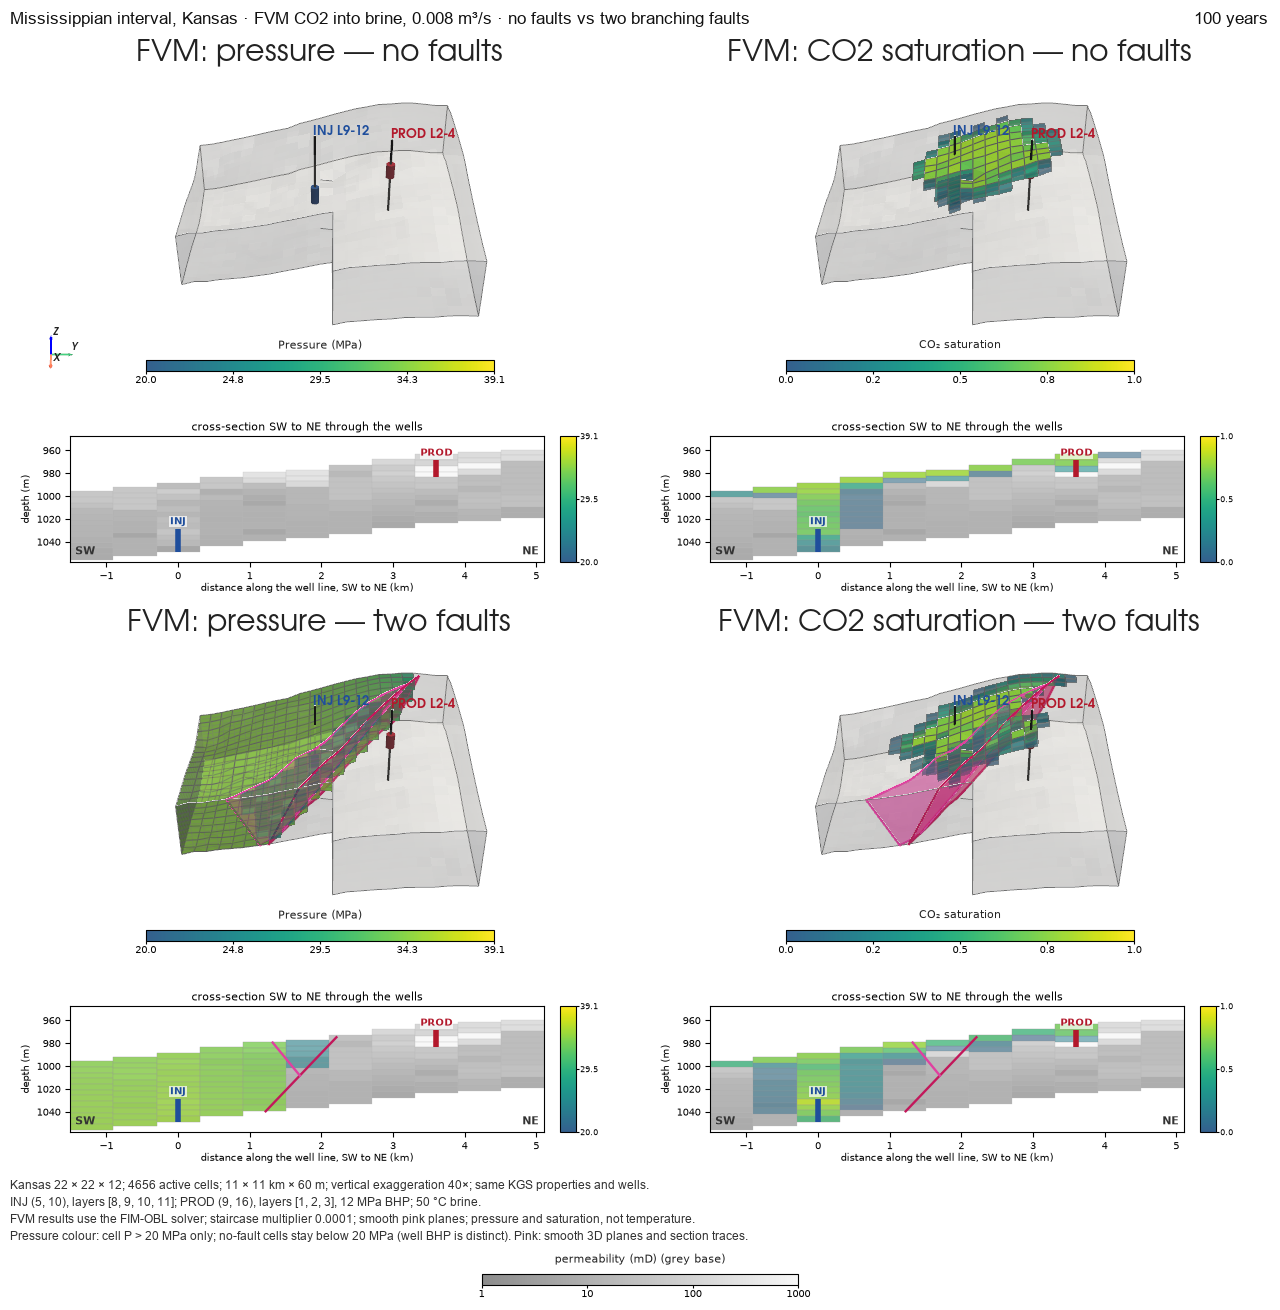
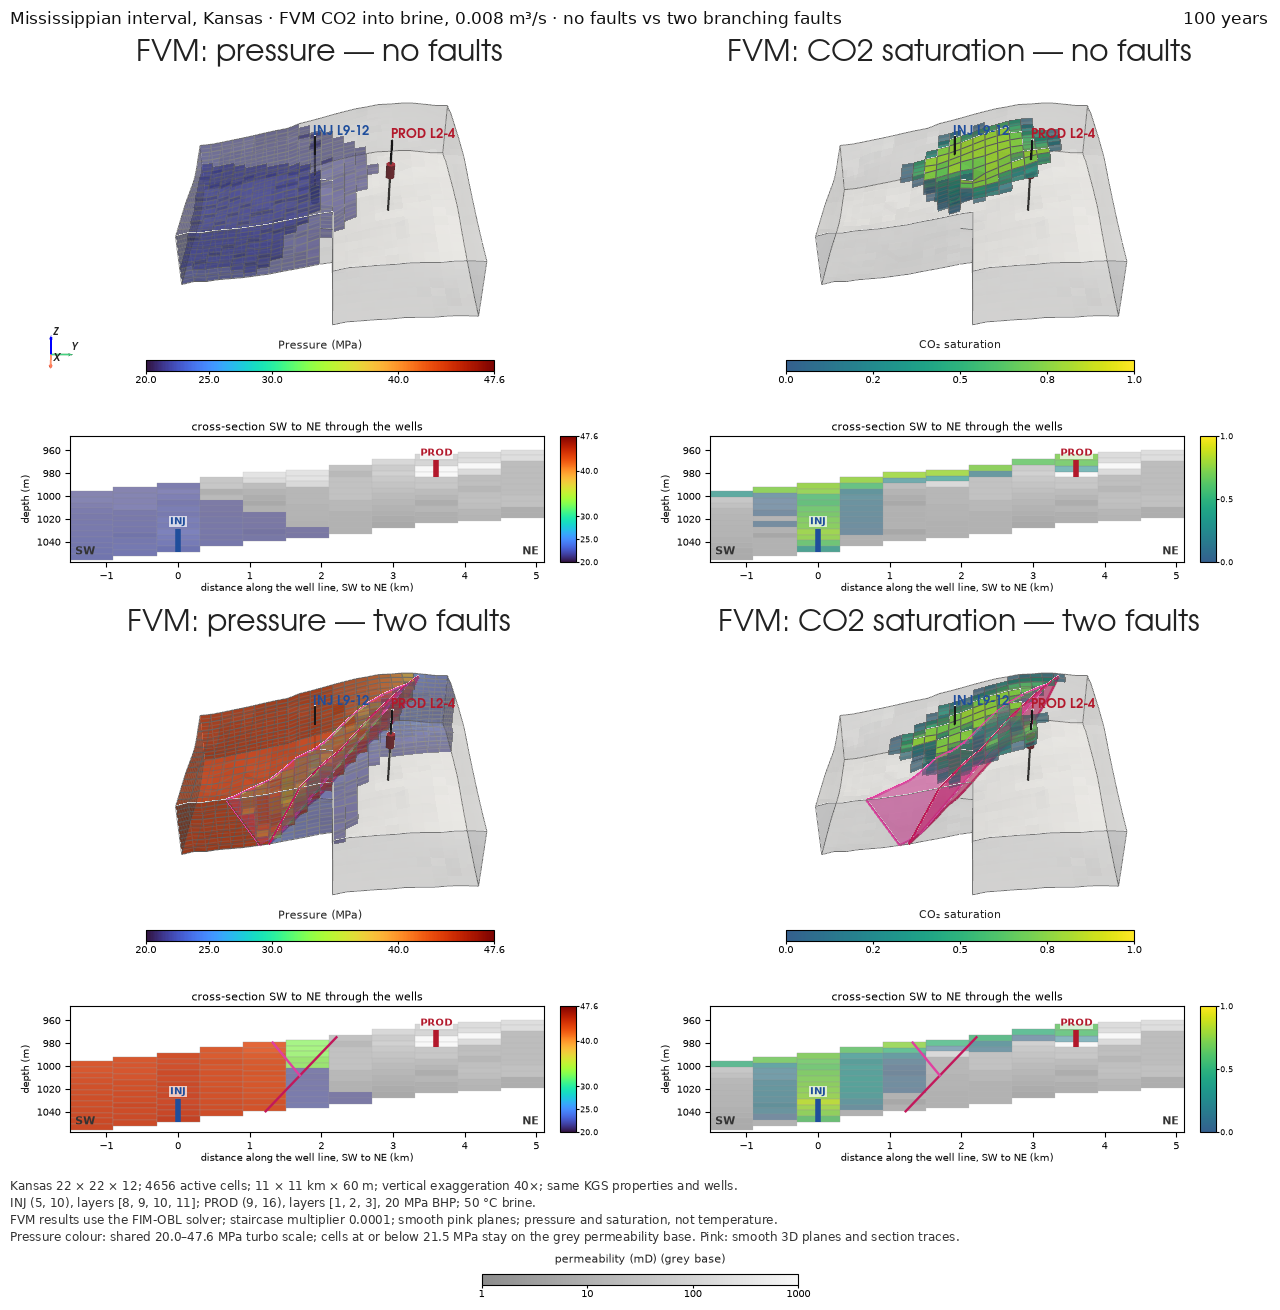
Update Kansas CO2 comparison to 20 MPa producer BHP

diff --git a/scripts/make_faulted_co2_kansas.py b/scripts/make_faulted_co2_kansas.py
@@ -52,7 +52,7 @@ def setup(a):
     inj, prod = tuple(getattr(a,"inj",(5,10))), tuple(getattr(a,"prod",(9,16)))
     inj_layers = list(getattr(a,"inj_layers",range(8,12)))
     prod_layers = list(getattr(a,"prod_layers",range(1,4)))
-    rate = float(getattr(a,"rate",.008)); bhp = float(getattr(a,"prod_bhp",1.2e7))
+    rate = float(getattr(a,"rate",.008)); bhp = float(getattr(a,"prod_bhp",20e6))
     p_range = tuple(getattr(a,"p_range",(5e6,2e8)))
     table_points = list(getattr(a,"table_points",(261,201)))
     if not (rate > 0 and 0 < p_range[0] < p_range[1] and len(table_points)==2 and min(table_points)>=2):
@@ -191,14 +191,16 @@ def render(b,cases,a):
     wl=wells_for_plot(bm,grid,[inj],[prod])
     sec=section_wells(bm,inj,prod,wl[0].extra["open"],wl[1].extra["open"]);sec["height"]=210
     surfaces,lines=smooth_surfaces(b)
-    lo=20.;hi=max(float(c["P"][:,bm["active"]].max()) for c in cases.values())
     panels=[]
     for row,name in enumerate(["no_faults","two_faults"]):
         for col,key in enumerate(["P","S"]):
-            opts=dict(label="Pressure" if key=="P" else "CO₂ saturation",units="MPa" if key=="P" else "",clim=(lo,hi) if key=="P" else (0,1),
-                cmap="viridis_bright",bar_fmt="%.1f",ref=20 if key=="P" else 0,
-                plume=.02,section_alpha=.85)
-            if key=="P":opts["positive_change_only"]=True
+            if key=="P":
+                opts=dict(label="Pressure",units="MPa",clim=(20.0,47.6),cmap="turbo",bar_fmt="%.1f",
+                    ref=20.0,plume=1.5,positive_change_only=True,cell_opacity=.80,section_alpha=.85,
+                    bar_ticks=[20,25,30,40,47.6])
+            else:
+                opts=dict(label="CO₂ saturation",units="",clim=(0,1),cmap="viridis_bright",bar_fmt="%.1f",
+                    ref=0,plume=.02,section_alpha=.85)
             if row:opts.update(fault_surfaces=surfaces,fault_section=lines,fault_opacity=.65)
             panels.append((TITLES[2*row+col],cases[name][key],opts))
     animate_layered(grid,panels,a.gif,times=b["times"],wells=wl,shape=(2,2),panel_size=(640,360),section=sec,
@@ -208,7 +210,7 @@ def render(b,cases,a):
         footer="Kansas 22 × 22 × 12; 4656 active cells; 11 × 11 km × 60 m; vertical exaggeration 40×; same KGS properties and wells.\n"
         f"INJ {inj}, layers {b['params']['inj_layers']}; PROD {prod}, layers {b['params']['prod_layers']}, {b['wells'][1]['bhp']/1e6:g} MPa BHP; 50 °C brine.\n"
         f"FVM results use the FIM-OBL solver; staircase multiplier {a.multiplier:g}; smooth pink planes; pressure and saturation, not temperature.\n"
-        "Pressure colour: cell P > 20 MPa only; no-fault cells stay below 20 MPa (well BHP is distinct). Pink: smooth 3D planes and section traces.")
+        "Pressure colour: shared 20.0–47.6 MPa turbo scale; cells at or below 21.5 MPa stay on the grey permeability base. Pink: smooth 3D planes and section traces.")
     from PIL import Image,ImageSequence
     im=Image.open(a.gif);frames=[f.copy() for f in ImageSequence.Iterator(im)];dur=[250]*len(frames);dur[-1]=1500
     frames[0].save(a.gif,save_all=True,append_images=frames[1:],duration=dur,loop=0,optimize=False)
@@ -216,7 +218,7 @@ def render(b,cases,a):
 
 def main():
     ap=argparse.ArgumentParser(description=__doc__);ap.add_argument("--cache-dir",type=Path,required=True)
-    ap.add_argument("--rate",type=float,default=.008);ap.add_argument("--years",type=float,default=100);ap.add_argument("--frames",type=int,default=50);ap.add_argument("--multiplier",type=float,default=1e-4)
+    ap.add_argument("--rate",type=float,default=.008);ap.add_argument("--years",type=float,default=100);ap.add_argument("--frames",type=int,default=50);ap.add_argument("--multiplier",type=float,default=1e-4);ap.add_argument("--prod-bhp",type=float,default=20e6,dest="prod_bhp")
     ap.add_argument("--save-npz",type=Path);ap.add_argument("--from-npz",type=Path);ap.add_argument("--validate-only",action="store_true")
     ap.add_argument("--no-rotate",dest="rotate",action="store_false",help="fixed camera");ap.add_argument("--rotate-deg",type=float,default=35.,help="total camera azimuth sweep in degrees when rotating");ap.add_argument("--view-dir",type=float,nargs=3,default=[.88,-.60,.75],metavar=("X","Y","Z"),help="starting direction from model to camera (x east, y north, z up)");ap.add_argument("--gif",type=Path,default=ROOT/"image/faulted_co2_kansas.gif");ap.add_argument("--still",type=Path,default=ROOT/"image/faulted_co2_kansas.png")
     return _execute(ap.parse_args())
@@ -254,7 +256,7 @@ def _execute(a):
 def run_comparison(*, cache_dir, rate=.008, p_range=(5e6,2e8), table_points=(261,201),
                    years=100, frames=50, fault_multiplier=1e-4, inj=(5,10), prod=(9,16),
                    inj_layers=tuple(range(8,12)), prod_layers=tuple(range(1,4)),
-                   prod_bhp=12e6, n_threads=8, render_output=False, gif=None, still=None,
+                   prod_bhp=20e6, n_threads=8, render_output=False, gif=None, still=None,
                    rotate=True, rotate_deg=35., view_dir=(.88,-.60,.75)):
     """Explicit notebook/API entry point; call only behind the notebook's opt-in flag.
 

diff --git a/python/subsurfix/viz3d.py b/python/subsurfix/viz3d.py
@@ -471,6 +471,13 @@ def _change_alpha(d, thr, dmax, relative=False):
     return 0.55 + 0.45 * np.clip((np.asarray(d, float) - thr) / (dmax - thr), 0.0, 1.0)
 
 
+def _colorbar_tick_values(o, n):
+    """Tick locations in data units. ``bar_ticks`` overrides the default evenly spaced ticks."""
+    if o.get("bar_ticks") is not None:
+        return np.asarray(o["bar_ticks"], float)
+    return np.linspace(*o["clim"], n)
+
+
 def _colorbar_image(o, w, h, vertical=False):
     """Matplotlib colour bar for a panel: ticks below (or right), title above, nothing overlapping."""
     import io
@@ -498,7 +505,7 @@ def _colorbar_image(o, w, h, vertical=False):
     else:
         sm = ScalarMappable(norm=Normalize(*o["clim"]), cmap=o["cmap"])
         cb = fig.colorbar(sm, cax=cax, orientation="horizontal", format=o.get("bar_fmt", "%.2f"))
-        cb.set_ticks(np.linspace(*o["clim"], 5))
+        cb.set_ticks(_colorbar_tick_values(o, 5))
     cb.ax.tick_params(labelsize=7, pad=1, length=2)
     title = f"{o['label']} ({o['units']})" if o.get("units") else o["label"]
     fig.text(0.5, 0.97, title, ha="center", va="top", fontsize=8, color="#222222")
@@ -575,7 +582,7 @@ def _section_image(sec, v, v0, o, w, h, background=None, bg_clim=None, dmax=None
     from matplotlib.cm import ScalarMappable
     from matplotlib.colors import Normalize
     cb = fig.colorbar(ScalarMappable(norm=Normalize(*o["clim"]), cmap=o["cmap"]), cax=cax, format=o.get("bar_fmt", "%.2f"))
-    cb.set_ticks(np.linspace(*o["clim"], 3))
+    cb.set_ticks(_colorbar_tick_values(o, 3))
     cb.ax.tick_params(labelsize=6, pad=1, length=2)
     ax.tick_params(labelsize=7)
     ends = sec.get("ends")
@@ -656,6 +663,9 @@ def animate_layered(
     ``positive_change_only=True`` in a panel masks depletion rather than colouring abs(change).
     ``fault_surfaces`` draws smooth depth-negative surfaces in that panel, scaled by the same vertical exaggeration.
     ``plume_frac`` sets the threshold as a fraction of the largest change in the run instead of ``plume``.
+    ``bar_ticks`` optionally sets the colour-bar tick locations in data units.
+    ``cell_opacity`` sets the opacity of a panel drawn without ``plume``, and scales the changed-cell opacities
+    when ``plume`` is set.
 
     ``background`` (one value per cell, e.g. porosity) colours the faint shell in greyscale instead of plain grey,
     and is drawn as grey cells under the change overlay in the cross-sections. ``background_cmap`` sets its colormap
@@ -727,6 +737,8 @@ def animate_layered(
                "height": 0.07, "width": 0.6, "title_font_size": 13, "label_font_size": 11}
         style = {"scalars": sname, "cmap": o["cmap"], "clim": o["clim"], "show_edges": True, "edge_color": edge_color,
                  "line_width": 0.3}
+        if o.get("cell_opacity") is not None and o["plume"] is None:
+            style["opacity"] = float(o["cell_opacity"])
         a_pl = None
         if o["plume"] is None:
             a_ctx = pl.add_mesh(mesh.copy(), show_scalar_bar=False, **style)
@@ -741,7 +753,10 @@ def animate_layered(
                                                     manifold_edges=False), color="#777777", line_width=1.0)
             a_ctx = None
             a_pl = []  # changed cells in opacity classes, one actor per class
-            for q, op in enumerate(ALPHA_LEVELS):
+            ops = ALPHA_LEVELS
+            if o.get("cell_opacity") is not None:
+                ops = tuple(float(o["cell_opacity"]) * a for a in ALPHA_LEVELS)
+            for q, op in enumerate(ops):
                 a_pl.append(pl.add_mesh(mesh.copy(), show_scalar_bar=False,
                                         specular=0.0, ambient=0.25, diffuse=0.8, opacity=op, **style))
         state.append((mesh, sname, a_ctx, a_pl))

diff --git a/examples/_build_nb12.py b/examples/_build_nb12.py
@@ -417,7 +417,7 @@ without wells inactive). Settings you can adjust on the command line:
 The existing Kansas structural model, not the geometry-preview box, is used by
 `scripts/make_faulted_co2_kansas.py`. It keeps 4656 active cells (22×22×12 with the SE notch),
 INJ (5,10) open layers 8–11 and PROD (9,16) layers 1–3 (zero-based), 0.008 m³/s,
-12 MPa producer BHP, and 100 years / reports every 2 years. FVM results use the FIM-OBL solver.
+20 MPa producer BHP (matching the 20 MPa initial reservoir pressure), and 100 years / reports every 2 years. FVM results use the FIM-OBL solver.
 
 - `--cache-dir`: separate caches for this matched pair; `--save-npz` / `--from-npz` save or render
   combined results. A table/setup fingerprint rejects stale caches. Do not mix the old 5–50 MPa cache
@@ -510,10 +510,11 @@ still ends near the previous almost-east angle. These are visual controls, not i
 settings: `RATE_M3_S` remains the shared reservoir-volume rate.
 
 The earlier 0.02 m³/s faulted run was rejected after 95,402 property fallbacks, not because a
-plume missed the producer. The chosen lower shared rate is **0.008 m³/s**: both Mac cases passed the fallback and
-mass-balance checks, with peak reported injector BHP 21.27 MPa / 43.21 MPa (no faults / two faults),
-below the 60 MPa flash limit. Table coverage remains 5–200 MPa with 261×201 points.
-The 43.21 MPa faulted BHP still exceeds an illustrative lithostatic estimate (~25.46 MPa);
+plume missed the producer. The chosen lower shared rate is **0.008 m³/s**, and the producer is
+held at **20 MPa**, the same as the initial reservoir pressure. The featured pair passed the
+fallback and mass-balance checks, with peak reported injector BHP 27.60 MPa / 52.31 MPa
+(no faults / two faults), below the 60 MPa flash limit. Table coverage remains 5–200 MPa with 261×201 points.
+The 52.31 MPa faulted BHP still exceeds an illustrative lithostatic estimate (~25.46 MPa, about 2.05×);
 no fracture opening or geomechanical safety is modeled. **Do not enable the solve casually:** `RUN_FAULTED_COMPARISON = False`
 means this section performs no model setup, native solve, timing or rendering. If explicitly
 enabled later, the runner rejects fallback values, poor mass balance and injector BHP ≥60 MPa.
@@ -529,7 +530,7 @@ INJ = (5, 10)
 INJ_LAYERS = tuple(range(8, 12))
 PROD = (9, 16)
 PROD_LAYERS = tuple(range(1, 4))
-PROD_BHP_PA = 12e6
+PROD_BHP_PA = 20e6
 N_THREADS = 8
 ROTATE = True        # camera sweep on/off
 ROTATE_DEG = 35      # total degrees over the clip; ends near the previous almost-east view

diff --git a/tests/test_notebook12_settings.py b/tests/test_notebook12_settings.py
@@ -80,7 +80,7 @@ class NotebookSettingsTests(unittest.TestCase):
 
     def test_notebook_rotation_controls(self):
         settings=next(c for c in self.code if c.startswith("RUN_FAULTED_COMPARISON ="));ns={"OUT":Path("outputs")};exec(settings,ns)
-        self.assertIs(ns["RUN_FAULTED_COMPARISON"],False);self.assertIs(ns["ROTATE"],True);self.assertEqual(ns["ROTATE_DEG"],35);self.assertEqual(ns["VIEW_DIR"],(0.88,-0.60,0.75));self.assertEqual(ns["RATE_M3_S"],.008)
+        self.assertIs(ns["RUN_FAULTED_COMPARISON"],False);self.assertIs(ns["ROTATE"],True);self.assertEqual(ns["ROTATE_DEG"],35);self.assertEqual(ns["VIEW_DIR"],(0.88,-0.60,0.75));self.assertEqual(ns["RATE_M3_S"],.008);self.assertEqual(ns["PROD_BHP_PA"],20e6)
         gate=next(c for c in self.code if c.startswith("if RUN_FAULTED_COMPARISON:"));self.assertIn("rotate=ROTATE, rotate_deg=ROTATE_DEG, view_dir=VIEW_DIR",gate)
         demo=next(c for c in self.code if c.startswith("from fluid_cases import (DEMO_RATE"));dn={};exec(demo,dn)
         self.assertIs(dn["DEMO_ROTATE"],True);self.assertEqual(dn["DEMO_ROTATE_DEG"],40.);self.assertEqual(dn["DEMO_RATE_M3_S"],.008)

diff --git a/tests/test_layered_fault_overlays.py b/tests/test_layered_fault_overlays.py
@@ -1,5 +1,5 @@
 """Layered render-path checks, with no VTK window or scientific solve."""
-import sys,tempfile,unittest,json,contextlib,io
+import sys,tempfile,unittest,json,contextlib,io,inspect
 from pathlib import Path
 from types import SimpleNamespace
 from unittest.mock import MagicMock,patch
@@ -82,5 +82,17 @@ class LayeredOverlayTests(unittest.TestCase):
         import inspect
         ps=inspect.signature(viz.animate_layered).parameters
         self.assertEqual(ps["view_dir"].default,(1.0,-0.35,0.75));self.assertEqual(ps["rotate_deg"].default,20.0)
+
+    def test_bar_ticks_and_cell_opacity_hooks(self):
+        o={"clim":(20.0,47.6),"bar_ticks":[20,25,30,40,47.6]}
+        ticks=viz._colorbar_tick_values(o,5)
+        self.assertEqual(list(ticks),[20.,25.,30.,40.,47.6])
+        even=viz._colorbar_tick_values({"clim":(20.0,47.6)},5)
+        self.assertAlmostEqual(even[0],20.0)
+        self.assertAlmostEqual(even[-1],47.6)
+        self.assertEqual(len(even),5)
+        ps=inspect.signature(viz.animate_layered).parameters
+        self.assertIn("view_dir",ps)
+
 
 if __name__=="__main__":unittest.main()

diff --git a/tests/test_kansas_branching_faults.py b/tests/test_kansas_branching_faults.py
@@ -24,7 +24,7 @@ class KansasBranchingTests(unittest.TestCase):
             for key in points:
                 p=g[key];self.assertAlmostEqual(plane_z(g[name],p[0],p[1]),p[2],places=8)
     def test_wells_and_fluid_setup(self):
-        p=self.b["params"];self.assertEqual(p["rate_m3_s"],.02);self.assertEqual(p["wells"][1]["bhp"],1.2e7)
+        p=self.b["params"];self.assertEqual(p["rate_m3_s"],.02);self.assertEqual(p["wells"][1]["bhp"],20e6)
         self.assertEqual(p["wells"][0]["cells"],[5+22*(10+22*k) for k in range(8,12)])
         self.assertEqual(p["wells"][1]["cells"],[9+22*(16+22*k) for k in range(1,4)])
         self.assertEqual(p["gravity"],9.80665);self.assertEqual(p["temperature_K"],323.15)

diff --git a/README.md b/README.md
@@ -232,24 +232,28 @@ both columns without solving again. The earlier one-row FVM-only crop remains in
 
 <p align="center"><img src="image/faulted_co2_kansas.gif" alt="Kansas FVM pressure and CO2 saturation: no faults above two branching no-throw faults" width="100%"></p>
 
-<sub>MacBook Pro (Apple M4 Pro, 48 GB), conda work, 8-thread cap · Kansas 22×22×12 · CO₂/brine, 0.008 m³/s, 100 yr · solver wall time: no faults 48.0 s; two faults 56.7 s; Δ(two − none) = +8.7 s. Same 5–200 MPa table, 261×201 points. Excludes common mesh setup, caching and rendering; one sequential run each, not a repeated benchmark.</sub>
+<sub>Kansas 22×22×12 · CO₂/brine, 0.008 m³/s, producer held at 20 MPa, 100 yr · same 5–200 MPa table, 261×201 points.</sub>
 
 *The FVM results use the FIM-OBL solver. Both rows use the Kansas structural model with the same wells and CO₂-into-brine setup. The lower row adds two no-throw branching staircase barriers (main 3.75° SW; branch 4.67° NE soling into the main; multiplier 10⁻⁴). Pink/magenta surfaces in the faulted 3D views and matching section traces draw the approved gentle-dip planes smoothly, not the staircase faces. This shows pressure and saturation, not temperature. FEM is omitted because faulted multiphase FEM is not available.*
 
 **Highlights (no faults / two faults)**
-- Peak reported injector BHP: **21.272 / 43.215 MPa**; final producer-cell pressure: **12.239 / 12.388 MPa**.
-- CO₂ reaches the producer in both cases by year 100; maximum CO₂-rich saturation in the producer's open cells is
-  **0.726 / 0.655**. Reaching the producer is a result, not an acceptance criterion.
-- Component balance errors (CO₂ / water, relative to net transferred mass): **3.95×10⁻⁹ / 5.51×10⁻⁸** without faults
-  and **1.68×10⁻⁹ / 6.00×10⁻⁹** with faults; no property or linear-solver fallbacks in either run.
-- Pressure panels colour cell pressure above the 20 MPa initial pressure (shared 20–39.08 MPa `viridis_bright` scale,
-  0.02 MPa threshold; drawdown stays grey). No-fault cells stay below 20 MPa (at most 18.856 MPa), so that row shows
-  no pressure plume; its 21.272 MPa is the injector **well BHP**, not a cell pressure.
+- Producer BHP is **20 MPa**, matching the 20 MPa initial reservoir pressure; the injector rate is **0.008 m³/s**.
+- No-faults cell pressures are **20.116–24.617 MPa**, peaking at year 6 (injector BHP **27.603 MPa**) and easing to
+  **22.380 MPa** by year 100. CO₂ reaches the producer at year **56** (final CO₂-rich saturation **0.670**).
+- Two-faults injector-side cell pressure peaks at **47.565 MPa** at year 54 (injector BHP **52.311 MPa**), easing to
+  **44.504 MPa** (BHP **49.037 MPa**) by year 100. The producer side stays near **20.2–24.6 MPa** (mean **21.05–21.27 MPa**).
+  CO₂ reaches the producer at year **82** (final CO₂-rich saturation **0.598**).
+- Peak reported injector BHP: **27.603 / 52.311 MPa**; final producer-cell pressure: **20.304 / 20.395 MPa**.
+  Reaching the producer is a result, not an acceptance criterion.
+- Component balance errors (CO₂ / water, relative to net transferred mass): **5.54×10⁻⁹ / 1.73×10⁻⁸** without faults
+  and **2.46×10⁻⁹ / 1.07×10⁻⁸** with faults; no property or linear-solver fallbacks in either run.
+- Pressure panels share a **20.0–47.6 MPa** `turbo` scale across both models, with cells at or below **21.5 MPa**
+  left on the grey permeability base.
 
 **Key settings**
 - Whole KGS structural model: 22 × 22 × 12 cells of 500 × 500 × 5 m (11 × 11 km, 60 m thick), 4656 active cells;
   KGS porosity, permeability and structural top unchanged; vertical exaggeration 40×.
-- Injector (5, 10), open in layers 8–11, 0.008 m³/s of CO₂; producer (9, 16), layers 1–3, 12 MPa BHP (zero-based
+- Injector (5, 10), open in layers 8–11, 0.008 m³/s of CO₂; producer (9, 16), layers 1–3, 20 MPa BHP (zero-based
   indices). 50 °C, 1 mol/kg brine; initial pressure 20 MPa; gravity on; 100 years, reported every two years.
 - Faults: no throw and no cut-plane mesh; a staircase transmissibility multiplier of 10⁻⁴ on 477 of 13,052
   connections. The pink surfaces and section traces draw the geometric fault planes.
@@ -261,12 +265,13 @@ both columns without solving again. The earlier one-row FVM-only crop remains in
 - The Spycher & Pruess (2005) CO₂–brine flash is valid to **60 MPa (600 bar)**; the wider 5–200 MPa table only keeps
   the numerical iterations inside the tabulated range. At 0.02 m³/s the faulted case left the valid property range
   (95,402 property fallbacks), so both cases share the lower rate of 0.008 m³/s.
-- The faulted 43.215 MPa injector BHP is well above a rough lithostatic estimate of ~25.46 MPa at the mean open depth
-  (~1.04 km, 2500 kg/m³ bulk density). That estimate is illustrative, not a site measurement or an operating limit.
-  The model has no fracture opening or geomechanics, so this result does not establish field feasibility.
+- The faulted 52.311 MPa injector BHP is well above a rough lithostatic estimate of ~25.46 MPa at the mean open depth
+  (~1.04 km, 2500 kg/m³ bulk density; about 2.05× that estimate). That estimate is illustrative, not a site measurement
+  or an operating limit. The model has no fracture opening or geomechanics, so this result does not establish field
+  feasibility.
 
 [Notebook 12](examples/12_multiphase_fluids.ipynb) exposes these as editable Python settings (`RATE_M3_S`,
-`P_RANGE_PA`, `TABLE_POINTS`, `YEARS`, `FAULT_MULTIPLIER`, wells and layers, `N_THREADS`, `VIEW_DIR`, `ROTATE`,
+`PROD_BHP_PA`, `P_RANGE_PA`, `TABLE_POINTS`, `YEARS`, `FAULT_MULTIPLIER`, wells and layers, `N_THREADS`, `VIEW_DIR`, `ROTATE`,
 `ROTATE_DEG`) and passes them to `run_comparison` in `scripts/make_faulted_co2_kansas.py`. The whole-Kansas solve is
 off by default (`RUN_FAULTED_COMPARISON = False`); separate `DEMO_*` settings drive the small notebook demos, and the
 script's `--from-npz` option re-renders from saved results without solving.
